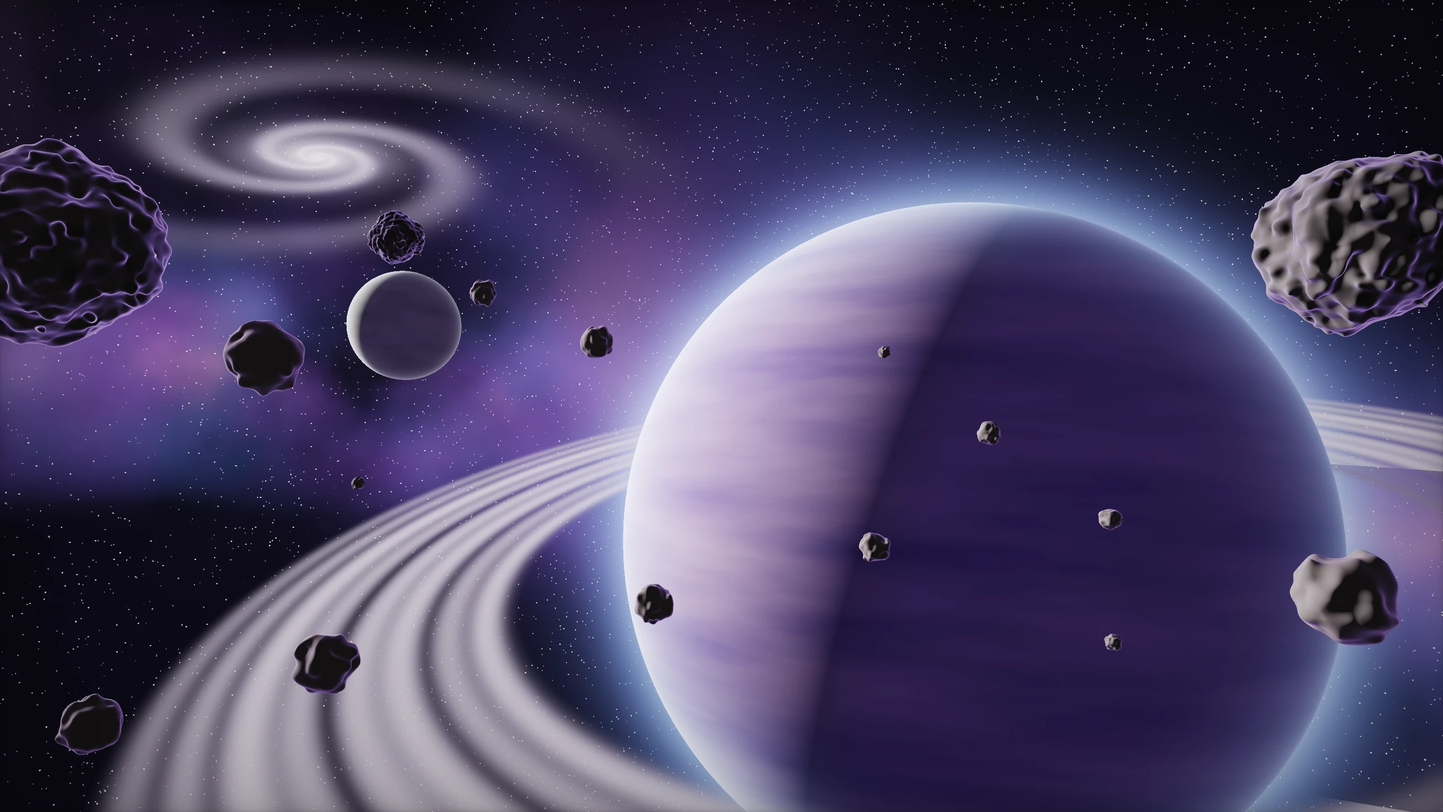
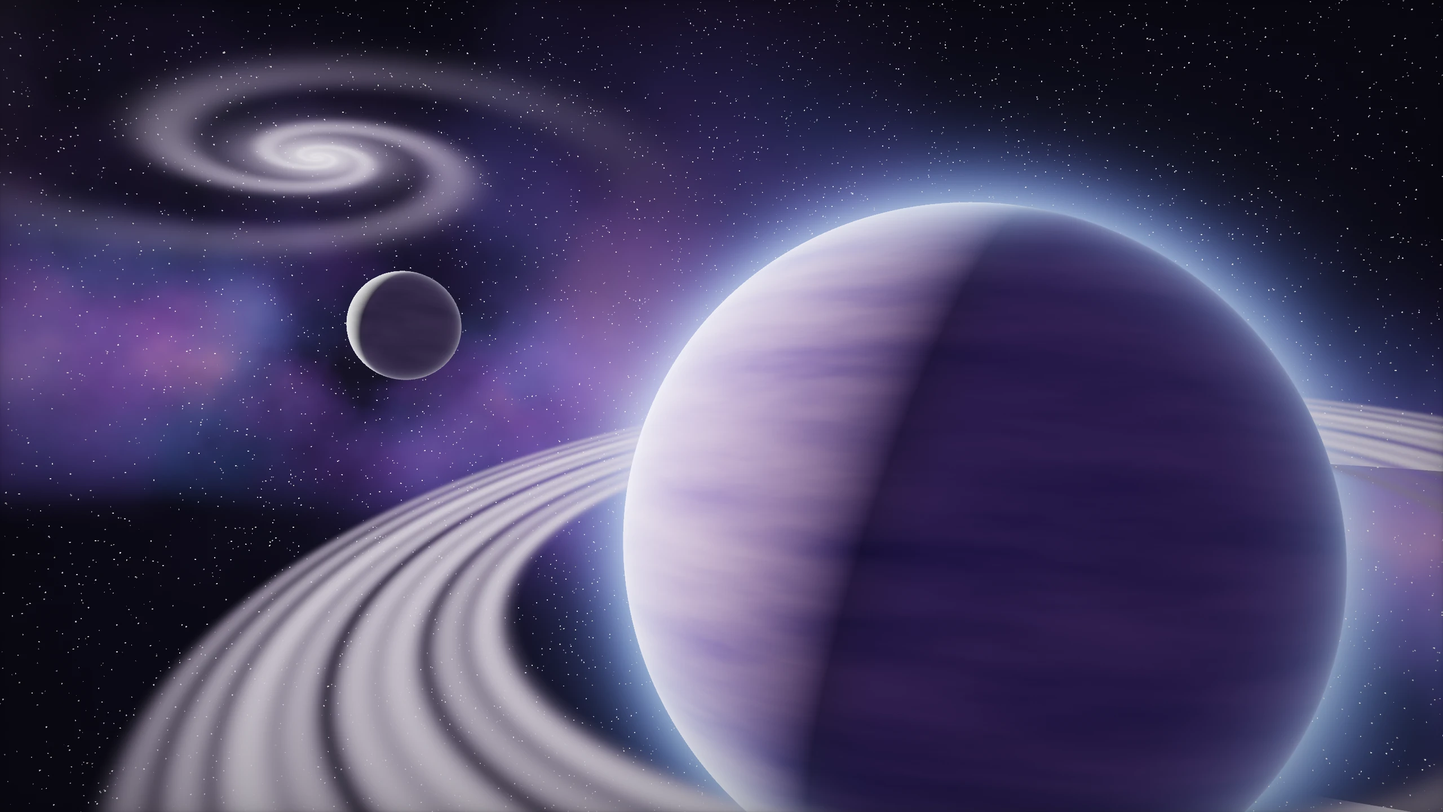
Galaxy hero: individually rendered asteroid sprites with autonomous drift, pop-out layer in safe regions
- render3d: sprite mode (// @sprites header, uLayer >= 10, transparent square/wide frames).
- Galaxy: 8 high-detail raymarched asteroid sprites (smooth body + bump-mapped surface,
  side-lit terminator, crater bowls, icy glints, violet night-side rim); baked asteroid
  field and close rocks retired (flat image keeps the sky).
- Engine: scene sprites (own depth factor + CSS drift/rotation loop, one crossing the sky)
  and a pop-out layer above the page (z-index 2, pointer-events none) placed only in the
  scene window or wide side margins, sized to fit and hidden where any text, control,
  media or panel lies within its movement range; Static/reduced motion show the layered
  scene at rest; tuning (parallax, motion, particles, foreground).
- Catalog/package/unit tests know the sprite files.

Claude-Session: https://claude.ai/code/session_018pJs9o4gSBzLeWY4NbbjW7

diff --git a/content.js b/content.js
@@ -230,6 +230,7 @@ ${glass ? openCss + MOTION_CSS + DEPTH_CSS : ''}
       if (isBoxed(el)) el.setAttribute(PANEL_ATTR, '');
     }
     scanOpenText();
+    if (document.getElementById(POP_ID)) queuePlacePop();
   }
   /* Open reading safety net: inside open containers, any visible text that is not on a backing yet (text in plain
      spans/divs that the CSS block rules do not name, e.g. sidebar "9.0k stars") gets its nearest element tagged
@@ -363,15 +364,133 @@ ${M}.repv-motion-cinematic body::before { animation:repv-parallax 48s ease-in-ou
     'scifi-ai': { pfar: [glowTile(73, 640, 480, 26, ['#7fdcff', '#c8f2ff'], 1, 2.4), '640px 480px'], pmid: [glowTile(79, 900, 640, 12, ['#5fd0ff', '#ffffff'], 2, 4), '900px 640px'],
       pnear: [bokehTile(83, 1400, 900, 5, ['#9fe6ff', '#ffffff']), '1400px 900px'], mist: 'radial-gradient(60% 24% at 50% 80%, rgba(160,225,255,.20), transparent 70%)' }
   };
+  /* Sprites: individually rendered objects (transparent WebP) that move on their own (CSS drift/rotation loop) and
+     with the pointer at their own depth factor k. plane 'scene' = inside the fixed scene behind GitHub (x/y/w in % of
+     the viewport); plane 'pop' = the pop-out layer ABOVE the page, but only in safe regions: the scene window ('band',
+     x/y as fractions of the band, h = height as a multiple of the band height) or a wide side margin ('margin').
+     A pop sprite is shown only where no text, control, image or panel lies under it (checked at runtime). */
+  const POP_ID = 'repovibe-popout';
+  const SPRITES = {
+    'cosmic-galaxy': [
+      // asteroid belt: the three mid rocks reused at different sizes, depths, flips and drift paths
+      { n: 'midC', plane: 'scene', k: 0.55, x: 40, y: 12, w: 3.2, cross: 150, rot: 220 },          // crosses the whole sky on its own
+      { n: 'b1', src: 'midA', plane: 'scene', k: 0.42, x: 33, y: 40, w: 2.1, dx: 30, dy: 10, rot: 60, dur: 46, flip: 1 },
+      { n: 'b2', src: 'midB', plane: 'scene', k: 0.48, x: 57, y: 22, w: 2.6, dx: -26, dy: 12, rot: -48, dur: 52 },
+      { n: 'b3', src: 'midC', plane: 'scene', k: 0.5, x: 13, y: 16, w: 1.8, dx: 20, dy: -8, rot: 90, dur: 38, flip: 1 },
+      { n: 'b4', src: 'midA', plane: 'scene', k: 0.58, x: 84, y: 48, w: 3, dx: -34, dy: -14, rot: 40, dur: 44 },
+      { n: 'b5', src: 'midB', plane: 'scene', k: 0.45, x: 45, y: 66, w: 2.2, dx: 24, dy: -16, rot: -70, dur: 50, flip: 1 },
+      { n: 'b6', src: 'midC', plane: 'scene', k: 0.64, x: 66, y: 78, w: 3.6, dx: -28, dy: 18, rot: 34, dur: 36 },
+      { n: 'b7', src: 'midA', plane: 'scene', k: 0.4, x: 27, y: 85, w: 1.6, dx: 16, dy: 10, rot: -110, dur: 58 },
+      { n: 'midA', plane: 'scene', k: 0.62, x: 72, y: 30, w: 4.6, dx: 46, dy: -20, rot: 28, dur: 34 },
+      { n: 'midB', plane: 'scene', k: 0.7, x: 20, y: 62, w: 5.6, dx: -40, dy: 16, rot: -34, dur: 40 },
+      { n: 'foreB', plane: 'scene', k: 1.2, x: 4, y: 34, w: 12, dx: 26, dy: 18, rot: -16, dur: 31 },  // cropped by the left edge
+      { n: 'foreA', plane: 'scene', k: 1.35, x: 95, y: 72, w: 17, dx: -34, dy: -22, rot: 14, dur: 28 }, // cropped by the right edge
+      { n: 'popA', plane: 'pop', at: 'band', x: 0.985, y: 0.52, h: 1.25, k: 2.7, dx: -24, dy: 6, rot: 9, dur: 24 },
+      { n: 'shard', plane: 'pop', at: 'band', x: 0.02, y: 0.4, h: 0.7, k: 3.0, dx: 22, dy: -5, rot: -11, dur: 21 },
+      { n: 'hero', src: 'foreB', plane: 'pop', at: 'band', x: 0.79, y: 0.5, h: 0.95, k: 2.2, dx: -30, dy: 5, rot: 12, dur: 26 }, // in front of the planet, inside the scene window
+      { n: 'popB', plane: 'pop', at: 'margin', side: 'left', y: 0.66, h: 0.2, k: 2.4, dx: 14, dy: -18, rot: 16, dur: 27 }
+    ]
+  };
+  function spriteUrl(slug, n) { return chrome.runtime.getURL(`wallpapers/depth/${slug}/s-${n}.webp`); }
+  function tuning() { const t = config.depthTuning || {}; return { parallax: (t.parallax ?? 100) / 100, motion: (t.motion ?? 100) / 100, particles: (t.particles ?? 100) / 100, foreground: (t.foreground ?? 100) / 100 }; }
+  function buildSprite(slug, s, cinematic) {
+    const wrap = document.createElement('div');
+    wrap.className = 'repv-s'; wrap.dataset.k = String(s.k); wrap.dataset.sprite = s.n;
+    const img = document.createElement('img');
+    img.src = spriteUrl(slug, s.src || s.n); img.alt = '';
+    if (s.flip) img.style.scale = '-1 1'; img.decoding = 'async'; img.draggable = false;
+    const m = cinematic ? 1.8 : 1;
+    if (s.cross) { img.dataset.cross = ''; img.style.setProperty('--dur', `${s.cross / (cinematic ? 1.5 : 1)}s`); }
+    else img.style.setProperty('--dur', `${s.dur / (cinematic ? 1.35 : 1)}s`);
+    img.style.setProperty('--dx', `${(s.dx || 0) * m}px`); img.style.setProperty('--dy', `${(s.dy || 0) * m}px`); img.style.setProperty('--rot', `${(s.rot || 0) * (cinematic ? 1.4 : 1)}deg`);
+    img.style.animationDelay = `${-((s.n.charCodeAt(0) * 7 + s.n.length * 13) % 20)}s`; // desynchronised loops
+    wrap.appendChild(img);
+    if (s.plane === 'scene') { wrap.style.left = `${s.x}%`; wrap.style.top = `${s.y}%`; wrap.style.width = `${s.w}vw`; }
+    else wrap.dataset.pop = s.at;
+    return wrap;
+  }
+  // Pop-out placement: inside the scene window (band) or a wide side margin, at the largest size that keeps every
+  // sampled point (sprite box grown by its parallax + drift reach) clear of text, controls, media and panels.
+  const CONTENTISH = 'a, button, input, textarea, select, label, img, svg, video, canvas, code, pre, summary, [role="button"], [role="tab"], [role="menu"], [role="dialog"], [contenteditable]';
+  function blockedAt(x, y) {
+    if (x < 0 || y < 0 || x >= innerWidth || y >= innerHeight) return false;
+    for (const e of document.elementsFromPoint(x, y)) {
+      if (e === document.documentElement || e === document.body || e.closest(`#${DEPTH_ID}, #${POP_ID}`)) continue;
+      if (e.matches(CONTENTISH) || e.closest(CONTENTISH)) return true;
+      if ([...e.childNodes].some(n => n.nodeType === 3 && n.nodeValue.trim())) return true;
+      const bg = getComputedStyle(e).backgroundColor;
+      if (!/rgba\(0, 0, 0, 0\)|transparent/.test(bg)) return true;
+      return false; // topmost real element is an empty layout box: open space
+    }
+    return false;
+  }
+  function placePop() {
+    const pop = document.getElementById(POP_ID); if (!pop) return;
+    const t = tuning();
+    const band = document.getElementById('repo-content-pjax-container') || document.querySelector('turbo-frame#repo-content-turbo-frame'); // the element that carries the scene-window padding
+    const bandH = band && document.documentElement.classList.contains('repv-scene-window') ? parseFloat(getComputedStyle(band).paddingTop) || 0 : 0;
+    const br = band ? band.getBoundingClientRect() : null;
+    // side margins: the open space at mid-height, found by probing (first text/control/panel from each side)
+    const probeY = [0.45, 0.6, 0.75].map(f => innerHeight * f);
+    let colLeft = innerWidth / 2, colRight = innerWidth / 2;
+    for (let x = 0; x < innerWidth / 2; x += 8) if (probeY.some(y => blockedAt(x, y))) { colLeft = x; break; }
+    for (let x = innerWidth - 1; x > innerWidth / 2; x -= 8) if (probeY.some(y => blockedAt(x, y))) { colRight = x; break; }
+    const amp = (document.documentElement.classList.contains('repv-depth-cinematic') ? 30 : 13) * t.parallax;
+    for (const w of pop.querySelectorAll('.repv-s')) {
+      const s = (SPRITES[pop.dataset.scene] || []).find(x => x.n === w.dataset.sprite);
+      const img = w.firstChild; const ratio = img.naturalWidth && img.naturalHeight ? img.naturalWidth / img.naturalHeight : 1;
+      let ok = false;
+      if (s && t.foreground > 0 && innerWidth >= 768) {
+        for (const f of [1.25, 1, 0.8, 0.62]) {
+          let h, left, top, fixed = false;
+          if (s.at === 'band') {
+            if (bandH < 60 || !br) break;
+            // how far the sprite can travel: pointer parallax (k × amplitude) + its own drift (Cinematic ≤ 1.8×)
+            const rx = s.k * amp + Math.abs(s.dx || 0) * 1.8 * t.motion + 6, ry = s.k * amp * 0.25 + Math.abs(s.dy || 0) * 1.8 * t.motion + 6;
+            h = Math.min(bandH * s.h * f * (0.55 + 0.45 * t.foreground), bandH - 2 * ry); if (h < 56) break;
+            const wpx = h * ratio;
+            left = br.left + scrollX + s.x * innerWidth - wpx / 2;
+            const bandTop = br.top + scrollY;
+            top = Math.max(bandTop + ry, Math.min(bandTop + bandH - ry - h, bandTop + s.y * bandH - h / 2));
+            const vx = left - scrollX, vy = top - scrollY; // viewport coords for the check
+            const pts = []; for (let i = 0; i <= 4; i++) for (let j = 0; j <= 4; j++) pts.push([vx - rx + (wpx + 2 * rx) * i / 4, vy - ry + (h + 2 * ry) * j / 4]);
+            // never over the repository tabs (above the band) or the content (below it)
+            if (top - ry < br.top + scrollY - 1 || top + h + ry > br.top + scrollY + bandH + 1) continue;
+            if (pts.some(([x, y]) => blockedAt(x, y))) continue;
+          } else {
+            const margin = s.side === 'left' ? colLeft : innerWidth - colRight;
+            if (margin < 150) break;
+            h = innerHeight * s.h * f * (0.55 + 0.45 * t.foreground); const wpx = h * ratio;
+            if (wpx > margin * 0.95) continue;
+            fixed = true;
+            left = s.side === 'left' ? margin * 0.08 : innerWidth - margin * 0.08 - wpx; top = innerHeight * s.y - h / 2;
+            const reach = s.k * amp + Math.abs(s.dx || 0) * 1.8 + 10;
+            if (s.side === 'left' ? left + wpx + reach > colLeft : left - reach < colRight) continue;
+            const pts = []; for (let i = 0; i <= 3; i++) for (let j = 0; j <= 4; j++) pts.push([left - reach + (wpx + 2 * reach) * i / 3, top - reach + (h + 2 * reach) * j / 4]);
+            if (pts.some(([x, y]) => blockedAt(x, y))) continue;
+          }
+          w.style.position = fixed ? 'fixed' : 'absolute';
+          w.style.left = `${Math.round(left)}px`; w.style.top = `${Math.round(top)}px`; w.style.height = `${Math.round(h)}px`; w.style.width = 'auto';
+          ok = true; break;
+        }
+      }
+      w.hidden = !ok;
+    }
+  }
+  let popTimer = 0;
+  function queuePlacePop() { clearTimeout(popTimer); popTimer = setTimeout(() => requestAnimationFrame(placePop), 150); }
   let depthState = { key: '', listening: false, probed: '', autoLite: false, fps: null };
   const ptr = { tx: 0, ty: 0, x: 0, y: 0, raf: 0 };
   function stepPointer() {
     ptr.raf = 0;
     const el = document.getElementById(DEPTH_ID); if (!el) return;
+    if (el.dataset.mode === 'static') return;
     ptr.x += (ptr.tx - ptr.x) * 0.1; ptr.y += (ptr.ty - ptr.y) * 0.1;
-    // Direct per-layer transforms (compositor-only; no inherited custom property invalidating the subtree each frame)
-    const amp = el.dataset.mode === 'cinematic' ? 30 : 13;
-    for (const l of el.children) { const k = LAYER_K[l.dataset.l]; if (k) l.style.transform = `translate3d(${(-ptr.x * k * amp).toFixed(2)}px, ${(-ptr.y * k * amp * 0.55).toFixed(2)}px, 0)`; }
+    // Direct per-element transforms (compositor-only; no inherited custom property invalidating the subtree each frame):
+    // every depth layer and every sprite (scene and pop-out) moves by its own depth factor k.
+    const amp = (el.dataset.mode === 'cinematic' ? 30 : 13) * tuning().parallax;
+    if (!depthState.movers || !depthState.movers[0]?.isConnected) depthState.movers = [...document.querySelectorAll(`#${DEPTH_ID} [data-k], #${POP_ID} [data-k]`)];
+    for (const l of depthState.movers) { const k = +l.dataset.k, vy = l.dataset.pop ? 0.25 : 0.55; l.style.transform = `translate3d(${(-ptr.x * k * amp).toFixed(2)}px, ${(-ptr.y * k * amp * vy).toFixed(2)}px, 0)`; }
     el.dataset.px = (-ptr.x).toFixed(4); el.dataset.py = (-ptr.y).toFixed(4);
     if (Math.abs(ptr.tx - ptr.x) + Math.abs(ptr.ty - ptr.y) > 0.002) ptr.raf = requestAnimationFrame(stepPointer);
   }
@@ -397,24 +516,25 @@ ${M}.repv-motion-cinematic body::before { animation:repv-parallax 48s ease-in-ou
   }
   function depthFor(theme, url) {
     if (!theme || !url || !config.depthEffects) return null;
-    if (config.motionMode === 'static' || reducedQuery?.matches) return null; // Static / reduced motion: sharp flat scene
     const v = C.normalizeTheme(theme);
     if (v.wallpaperBlur > 0 || v.wallpaperSize !== 'cover' || v.wallpaperPosition !== 'center') return null;
     const m = /^builtin:([a-z0-9-]+)$/.exec(v.wallpaperRef || '');
     const w = m && C.WALLPAPERS.find(x => x.slug === m[1]);
     if (!w || !w.depth || !w.depth.length) return null;
-    return { slug: w.slug, layers: Object.fromEntries(w.depth.map(d => [d.layer, chrome.runtime.getURL(d.path)])), mode: config.motionMode, veil: sceneLayers(v).map(l => l.replace(' fixed', '')).join(', ') };
+    return { slug: w.slug, layers: Object.fromEntries(w.depth.map(d => [d.layer, chrome.runtime.getURL(d.path)])), mode: config.motionMode === 'static' || reducedQuery?.matches ? 'static' : config.motionMode, veil: sceneLayers(v).map(l => l.replace(' fixed', '')).join(', ') };
   }
   function removeDepth() {
-    document.getElementById(DEPTH_ID)?.remove();
-    document.documentElement?.classList.remove('repv-depth', 'repv-depth-cinematic', 'repv-depth-paused', 'repv-depth-lite');
+    document.getElementById(DEPTH_ID)?.remove(); document.getElementById(POP_ID)?.remove();
+    window.removeEventListener('resize', queuePlacePop); clearTimeout(popTimer); depthState.movers = null;
+    document.documentElement?.classList.remove('repv-depth', 'repv-depth-cinematic', 'repv-depth-static', 'repv-depth-paused', 'repv-depth-lite');
     listenPointer(false); depthState.key = '';
   }
   function renderDepth(theme, url) {
     const d = depthFor(theme, url);
     const root = document.documentElement;
     if (!d) { if (depthState.key || document.getElementById(DEPTH_ID)) removeDepth(); return; }
-    const key = `${d.slug}|${d.mode}|${d.veil}`;
+    const T = tuning();
+    const key = `${d.slug}|${d.mode}|${d.veil}|${T.foreground > 0}`;
     let el = document.getElementById(DEPTH_ID);
     if (!el || depthState.key !== key) {
       el?.remove();
@@ -422,12 +542,16 @@ ${M}.repv-motion-cinematic body::before { animation:repv-parallax 48s ease-in-ou
       el.id = DEPTH_ID; el.setAttribute('aria-hidden', 'true'); el.dataset.scene = d.slug; el.dataset.mode = d.mode;
       const P = DEPTH_PARTICLES[d.slug] || {};
       const order = ['far', 'pfar', 'mist', 'mid', 'pmid', 'near', 'rays', 'front', 'pnear'];
+      const SP = SPRITES[d.slug] || [];
+      const addSprites = near => { for (const s of SP.filter(x => x.plane === 'scene' && (near ? x.k >= 1 : x.k < 1))) el.appendChild(buildSprite(d.slug, s, d.mode === 'cinematic')); };
       for (const name of order) {
+        if (name === 'rays') addSprites(false);  // mid-depth sprites sit below the light shafts
+        if (name === 'pnear') addSprites(true);  // close sprites sit just behind the nearest particles
         const img = d.layers[name] ? `url("${d.layers[name]}")` : null;
         const part = P[name];
         if (!img && !part) continue;
         const layer = document.createElement('div');
-        layer.className = 'repv-l'; layer.dataset.l = name; layer.style.setProperty('--k', String(LAYER_K[name]));
+        layer.className = 'repv-l'; layer.dataset.l = name; layer.dataset.k = String(LAYER_K[name]); layer.style.setProperty('--k', String(LAYER_K[name]));
         const inner = document.createElement('i');
         if (img) inner.style.backgroundImage = img;
         else if (Array.isArray(part)) { layer.dataset.tile = ''; inner.style.backgroundImage = part[0]; inner.style.backgroundSize = part[1]; }
@@ -436,11 +560,24 @@ ${M}.repv-motion-cinematic body::before { animation:repv-parallax 48s ease-in-ou
       }
       const veil = document.createElement('div'); veil.className = 'repv-veil'; if (d.veil) veil.style.backgroundImage = d.veil; el.appendChild(veil);
       root.appendChild(el);
-      depthState.key = key;
+      document.getElementById(POP_ID)?.remove();
+      const pops = (SPRITES[d.slug] || []).filter(x => x.plane === 'pop');
+      if (pops.length && T.foreground > 0) {
+        const pop = document.createElement('div'); pop.id = POP_ID; pop.setAttribute('aria-hidden', 'true'); pop.dataset.scene = d.slug;
+        for (const s of pops) { const w = buildSprite(d.slug, s, d.mode === 'cinematic'); w.hidden = true; w.firstChild.addEventListener('load', queuePlacePop, { once: true }); pop.appendChild(w); }
+        root.appendChild(pop);
+        window.addEventListener('resize', queuePlacePop, { passive: true });
+      }
+      depthState.key = key; depthState.movers = null;
     }
+    el.style.setProperty('--drift', String(T.motion)); el.style.setProperty('--particles', String(Math.min(1, T.particles))); el.style.setProperty('--fg', String(Math.min(1, T.foreground)));
+    document.getElementById(POP_ID)?.style.setProperty('--drift', String(T.motion));
+    root.classList.toggle('repv-depth-still', T.motion === 0);
+    root.classList.toggle('repv-depth-static', d.mode === 'static');
+    queuePlacePop();
     root.classList.add('repv-depth');
     root.classList.toggle('repv-depth-cinematic', d.mode === 'cinematic');
-    listenPointer(true);
+    listenPointer(d.mode !== 'static');
     if (!ptr.raf) ptr.raf = requestAnimationFrame(stepPointer); // apply the current pointer to freshly built layers
     applyDepthQuality();
     probeDepthQuality(key);
@@ -497,8 +634,26 @@ html.repv-depth body::before { animation:none !important; will-change:auto !impo
 @keyframes repv-sway { from { transform:rotate(-.7deg) translate3d(-6px, 0, 0); } to { transform:rotate(.7deg) translate3d(6px, 2px, 0); } }
 @keyframes repv-breathe { from { opacity:.45; } to { opacity:1; } }
 @keyframes repv-bokeh { from { transform:translate3d(-20px, 10px, 0); } to { transform:translate3d(24px, -18px, 0); } }
-html.repv-depth-paused #repovibe-depth *, html.repv-depth-paused #repovibe-depth { animation-play-state:paused !important; }
-@media (prefers-reduced-motion:reduce) { #repovibe-depth { display:none; } }
+/* Sprites (scene plane) and the pop-out layer */
+#repovibe-depth > .repv-s { position:absolute; transform:translate3d(0, 0, 0); will-change:transform; translate:-50% -50%; }
+.repv-s > img { display:block; width:100%; height:auto; user-select:none; }
+#repovibe-popout { position:absolute; top:0; left:0; width:100%; height:0; overflow:visible; z-index:2; pointer-events:none; }
+#repovibe-popout > .repv-s { will-change:transform; }
+#repovibe-popout > .repv-s > img { height:100%; width:auto; filter:drop-shadow(0 22px 26px rgba(0, 0, 0, .55)) drop-shadow(0 0 1px rgba(0, 0, 0, .6)); }
+#repovibe-popout > .repv-s[hidden], #repovibe-depth > .repv-s[hidden] { display:none; }
+#repovibe-depth > [data-l="front"] { opacity:var(--fg, 1); }
+#repovibe-depth > :is([data-l="pfar"], [data-l="pmid"], [data-l="pnear"], [data-l="mist"]) { opacity:var(--particles, 1); }
+@media (prefers-reduced-motion:no-preference) {
+ :is(#repovibe-depth, #repovibe-popout) .repv-s > img { animation:repv-drift var(--dur, 30s) ease-in-out infinite alternate; }
+ :is(#repovibe-depth, #repovibe-popout) .repv-s > img[data-cross] { animation:repv-cross var(--dur, 120s) linear infinite; }
+}
+@keyframes repv-drift { 0% { transform:translate3d(0, 0, 0) rotate(0deg); } 50% { transform:translate3d(calc(var(--dx) * var(--drift, 1)), calc(var(--dy) * var(--drift, 1)), 0) rotate(calc(var(--rot) * .55 * var(--drift, 1))); } 100% { transform:translate3d(calc(var(--dx) * -.45 * var(--drift, 1)), calc(var(--dy) * .7 * var(--drift, 1)), 0) rotate(calc(var(--rot) * var(--drift, 1))); } }
+@keyframes repv-cross { from { transform:translate3d(-60vw, 6vh, 0) rotate(0deg); } to { transform:translate3d(80vw, -4vh, 0) rotate(var(--rot)); } }
+/* Static (and reduced motion): the same layered scene, at rest: no overscan, no animation, no pointer response */
+html.repv-depth-static #repovibe-depth > .repv-l { inset:0; }
+html.repv-depth-static :is(#repovibe-depth, #repovibe-popout) *, html.repv-depth-still :is(#repovibe-depth, #repovibe-popout) * { animation:none !important; }
+html.repv-depth-paused :is(#repovibe-depth, #repovibe-popout) *, html.repv-depth-paused #repovibe-depth { animation-play-state:paused !important; }
+@media (prefers-reduced-motion:reduce) { :is(#repovibe-depth, #repovibe-popout) * { animation:none !important; } }
 `;
 
   /* ---- Wallpaper resolution: bundled assets, IndexedDB assets (via service worker), legacy inline data. */

diff --git a/scripts/wallpapers/render3d.js b/scripts/wallpapers/render3d.js
@@ -30,8 +30,14 @@ const only = opt('--only', null); // e.g. --only front,rays (implies --layers, s
   for (const slug of list) {
     const src = `#version 300 es\n${common}\n${fs.readFileSync(path.join(DIR, `${slug}.glsl`), 'utf8')}`;
     const t0 = Date.now();
-   const layerList = only ? only.split(',').map(n => LAYERS.indexOf(n) + 1).filter(n => n > 0) : [0, ...(withLayers ? [1, 2, 3, 4, 5] : [])];
+   // Sprites: '// @sprites name:WxH, ...' in the shader header; rendered with uLayer = 10 + index (--sprites, or --only s-<name>)
+   const spriteDecl = /\/\/ @sprites ([^\n]+)/.exec(fs.readFileSync(path.join(DIR, `${slug}.glsl`), 'utf8'));
+   const sprites = spriteDecl ? spriteDecl[1].split(',').map(x => x.trim().split(':')).map(([name, size], i) => ({ name, i, size: size.split('x').map(Number) })) : [];
+   const wantSprites = sprites.filter(s => args.includes('--sprites') || (only || '').split(',').includes(`s-${s.name}`));
+   const layerList = [...(only ? only.split(',').map(n => LAYERS.indexOf(n) + 1).filter(n => n > 0) : (args.includes('--sprites-only') ? [] : [0, ...(withLayers ? [1, 2, 3, 4, 5] : [])])), ...wantSprites.map(s => 10 + s.i)];
    for (const layer of layerList) {
+    const sp = layer >= 10 ? sprites[layer - 10] : null;
+    const [LW, LH] = sp ? (preview ? sp.size.map(v => Math.round(v / 2)) : sp.size) : [W, H];
     const out = await page.evaluate(async ([src, W, H, seed, layer]) => {
       const strip = 120;
       const gl = new OffscreenCanvas(W, strip).getContext('webgl2', { preserveDrawingBuffer: true });
@@ -68,7 +74,7 @@ const only = opt('--only', null); // e.g. --only front,rays (implies --layers, s
       const enc = async (c, q) => { const b = new Uint8Array(await (await c.convertToBlob({ type: 'image/webp', quality: q })).arrayBuffer()); let s = ''; for (let i = 0; i < b.length; i += 0x8000) s += String.fromCharCode.apply(null, b.subarray(i, i + 0x8000)); return btoa(s); };
       const thumb = new OffscreenCanvas(480, 270); const tc = thumb.getContext('2d'); tc.imageSmoothingQuality = 'high'; tc.drawImage(full, 0, 0, 480, 270);
       return { full: await enc(full, 0.9), thumb: await enc(thumb, 0.82) };
-    }, [src, W, H, 7, layer]);
+    }, [src, LW, LH, 7, layer]);
     if (layer === 0) {
       const name = preview ? `${slug}.preview.webp` : `${slug}.webp`;
       fs.writeFileSync(path.join(outDir, name), Buffer.from(out.full, 'base64'));
@@ -76,7 +82,9 @@ const only = opt('--only', null); // e.g. --only front,rays (implies --layers, s
       console.log(`${slug.padEnd(20)} ${W}x${H} ${((Date.now() - t0) / 1000).toFixed(1)} s  ${(fs.statSync(path.join(outDir, name)).size / 1024).toFixed(0)} KB`);
     } else {
       const dir = path.join(outDir, preview ? 'depth-preview' : 'depth', slug); fs.mkdirSync(dir, { recursive: true });
-      fs.writeFileSync(path.join(dir, `${LAYERS[layer - 1]}.webp`), Buffer.from(out.full, 'base64'));
+      const fname = sp ? `s-${sp.name}.webp` : `${LAYERS[layer - 1]}.webp`;
+      fs.writeFileSync(path.join(dir, fname), Buffer.from(out.full, 'base64'));
+      if (sp) { console.log(`${slug.padEnd(20)} sprite ${sp.name.padEnd(6)} ${LW}x${LH} ${((Date.now() - t0) / 1000).toFixed(1)} s  ${(fs.statSync(path.join(dir, fname)).size / 1024).toFixed(0)} KB`); continue; }
       console.log(`${slug.padEnd(20)} layer ${LAYERS[layer - 1].padEnd(5)} ${((Date.now() - t0) / 1000).toFixed(1)} s  ${(fs.statSync(path.join(dir, `${LAYERS[layer - 1]}.webp`)).size / 1024).toFixed(0)} KB`);
     }
    }

diff --git a/shared/core.js b/shared/core.js
@@ -109,7 +109,7 @@
   const CONFIG_VERSION = 2;
   const DEFAULT = {
     version: CONFIG_VERSION, enabled: true, defaultThemeId: 'native',
-    autoAssign: true, autoAssignments: {}, motionMode: 'ambient', seededMappings: false, appearance: 'crisp', sceneWindow: true, sceneHeight: 'standard', depthEffects: true, depthQuality: 'auto', readingBacking: 'text',
+    autoAssign: true, autoAssignments: {}, motionMode: 'ambient', seededMappings: false, appearance: 'crisp', sceneWindow: true, sceneHeight: 'standard', depthEffects: true, depthQuality: 'auto', readingBacking: 'text', depthTuning: { parallax: 100, motion: 100, particles: 100, foreground: 100 },
     repoAssignments: {}, ownerAssignments: {}, customThemes: {}
   };
   const colorKeys = ['bg', 'surface', 'surface2', 'text', 'muted', 'accent', 'border', 'gradientTo', 'gradientThird', 'codeBg'];
@@ -180,6 +180,9 @@
     config.sceneHeight = SCENE_HEIGHTS.includes(raw.sceneHeight) ? raw.sceneHeight : 'standard';
     config.depthEffects = raw.depthEffects !== false;
     config.readingBacking = raw.readingBacking === 'panels' ? 'panels' : 'text';
+    const tune = raw.depthTuning && typeof raw.depthTuning === 'object' ? raw.depthTuning : {};
+    const clampInt = (v, lo, hi, d) => Number.isFinite(+v) ? Math.min(hi, Math.max(lo, Math.round(+v))) : d;
+    config.depthTuning = { parallax: clampInt(tune.parallax, 0, 200, 100), motion: clampInt(tune.motion, 0, 200, 100), particles: clampInt(tune.particles, 0, 100, 100), foreground: clampInt(tune.foreground, 0, 150, 100) };
     config.depthQuality = DEPTH_QUALITIES.includes(raw.depthQuality) ? raw.depthQuality : 'auto';
     config.seededMappings = raw.seededMappings === true;
     for (const type of ['repoAssignments', 'ownerAssignments', 'autoAssignments']) {
@@ -224,6 +227,7 @@
     config.appearance = 'crisp';
     config.sceneHeight = 'standard';
     config.readingBacking = 'text';
+    config.depthTuning = { parallax: 100, motion: 100, particles: 100, foreground: 100 };
     let changed = 0;
     for (const theme of Object.values(config.customThemes)) {
       const v = appearanceValues('crisp', theme);

diff --git a/tests/core.test.js b/tests/core.test.js
@@ -317,3 +317,19 @@ test('flagship wallpapers declare depth layers that exist on disk, starting with
     }
   }
 });
+
+test('every sprite referenced by the depth engine exists on disk and in the catalogue', () => {
+  const path = require('node:path');
+  const src = fs.readFileSync(path.join(__dirname, '../content.js'), 'utf8');
+  const block = src.slice(src.indexOf('const SPRITES = {'), src.indexOf('function spriteUrl'));
+  const worlds = [...block.matchAll(/'([a-z0-9-]+)': \[([\s\S]*?)\n    \]/g)];
+  assert.ok(worlds.length >= 1);
+  for (const [, slug, body] of worlds) {
+    const w = C.WALLPAPERS.find(x => x.slug === slug);
+    for (const [, n] of [...body.matchAll(/\{ n: '([A-Za-z0-9]+)'(?!, src)/g), ...body.matchAll(/src: '([A-Za-z0-9]+)'/g)]) {
+      assert.ok(fs.existsSync(path.join(__dirname, '..', 'wallpapers', 'depth', slug, `s-${n}.webp`)), `${slug}/s-${n}.webp`);
+      assert.ok((context.RepoVibeWallpaperCatalog.find(x => x.slug === slug).sprites || []).includes(n), `${slug}: ${n} listed in the catalogue (packaged + verified)`);
+    }
+    assert.ok(w, slug);
+  }
+});

diff --git a/scripts/wallpapers/build-catalog.js b/scripts/wallpapers/build-catalog.js
@@ -45,7 +45,8 @@ const STYLES = ['3d', 'illustrated', 'photo'];
     const depthDir = path.join(ROOT, 'wallpapers', 'depth', w.slug);
     const depth = ['far', 'mid', 'near', 'front', 'rays'].filter(l => fs.existsSync(path.join(depthDir, `${l}.webp`)));
     if (depth.length && !depth.includes('far')) problems.push(`${w.slug}: depth layers need at least 'far'`);
-    out.push({ slug: w.slug, name: w.name, category: w.category, style: w.style, tone: info.tone, toneSoft: info.toneSoft, ...(depth.length ? { depth } : {}) });
+    const sprites = fs.existsSync(depthDir) ? fs.readdirSync(depthDir).filter(f => /^s-[A-Za-z0-9]+\.webp$/.test(f)).map(f => f.slice(2, -5)).sort() : [];
+    out.push({ slug: w.slug, name: w.name, category: w.category, style: w.style, tone: info.tone, toneSoft: info.toneSoft, ...(depth.length ? { depth } : {}), ...(sprites.length ? { sprites } : {}) });
   }
   await browser.close();
   if (problems.length) { console.error(`Wallpaper catalog FAILED:\n - ${problems.join('\n - ')}`); process.exit(1); }

diff --git a/scripts/verify-package.js b/scripts/verify-package.js
@@ -40,7 +40,7 @@ const threeD = catalog.filter(w => w.style === '3d').length;
 if (wallpaperSlugs.length < 10) problems.push(`expected at least 10 bundled wallpapers, found ${wallpaperSlugs.length}`);
 for (const slug of wallpaperSlugs) { required.add(`wallpapers/${slug}.webp`); required.add(`wallpapers/thumbs/${slug}.webp`); }
 // 2.5D depth layers declared by the catalogue (pre-rendered slabs for the parallax engine)
-const depthLayers = catalog.flatMap(w => (w.depth || []).map(l => `wallpapers/depth/${w.slug}/${l}.webp`));
+const depthLayers = catalog.flatMap(w => [...(w.depth || []).map(l => `wallpapers/depth/${w.slug}/${l}.webp`), ...(w.sprites || []).map(n => `wallpapers/depth/${w.slug}/s-${n}.webp`)]);
 for (const f of depthLayers) required.add(f);
 if (catalog.filter(w => (w.depth || []).length).length < 4) problems.push('expected depth layers for the four flagship worlds');
 if (!files.has('wallpapers/LICENSE.md')) problems.push('missing wallpapers/LICENSE.md');

diff --git a/shared/wallpaper-catalog.js b/shared/wallpaper-catalog.js
@@ -29,19 +29,27 @@
       "category": "Space",
       "style": "3d",
       "tone": [
-        "#cdc6dd",
+        "#cec6dd",
         "#090811"
       ],
       "toneSoft": [
-        "#cdc6dd",
+        "#cec7de",
         "#0a0913"
       ],
       "depth": [
         "far",
         "mid",
-        "near",
-        "front",
         "rays"
+      ],
+      "sprites": [
+        "foreA",
+        "foreB",
+        "midA",
+        "midB",
+        "midC",
+        "popA",
+        "popB",
+        "shard"
       ]
     },
     {
